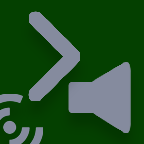
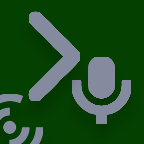
Add Set Mic Device + Manifest Upgrade + Clean Up

Changed region(s): [[0.4722, 0.3889, 0.9167, 0.9444]]

diff --git a/src/actions/set-output-device-to.ts b/src/actions/set-output-device-to.ts
@@ -100,7 +100,7 @@ export class ActionSetOutputDeviceTo extends SingletonAction<SetOutputDeviceToSe
 	private static async generateTitleAsync(localSettings: SetOutputDeviceToSettings): Promise<string> {
 		const channelName = SetOutputDeviceToChannelsTranslations.get(localSettings.setDeviceMode) ?? "Unknown";
 		const deviceName = (await sonarClient.getAllAudioDevicesAsync()).find((x) => x.id == localSettings.targetedDeviceId)?.friendlyName ?? "Unknown";
-		return wrapText(`Set ${channelName}: ${deviceName}`, 9, localSettings.maxTitleLength);	
+		return wrapText(`Set ${channelName}: ${deviceName}`, 11, localSettings.maxTitleLength);	
 	}
 
 	private static getImagePath(globalSettings: GlobalSettings, localSettings: SetOutputDeviceToSettings): string {

diff --git a/src/actions/set-microphone-device-to.ts b/src/actions/set-microphone-device-to.ts
@@ -99,7 +99,7 @@ export class ActionSetMicrophoneDeviceTo extends SingletonAction<SetMicrophoneDe
 
 	private static async generateTitleAsync(localSettings: SetMicrophoneDeviceToSettings): Promise<string> {
 		const deviceName = (await sonarClient.getAllAudioDevicesAsync()).find((x) => x.id == localSettings.targetedDeviceId)?.friendlyName ?? "Unknown";
-		return wrapText(`Set Microphone: ${deviceName}`, 9, localSettings.maxTitleLength);
+		return wrapText(`Set Mic: ${deviceName}`, 9, localSettings.maxTitleLength);
 	}
 
 	private static getImagePath(globalSettings: GlobalSettings, localSettings: SetMicrophoneDeviceToSettings): string {
